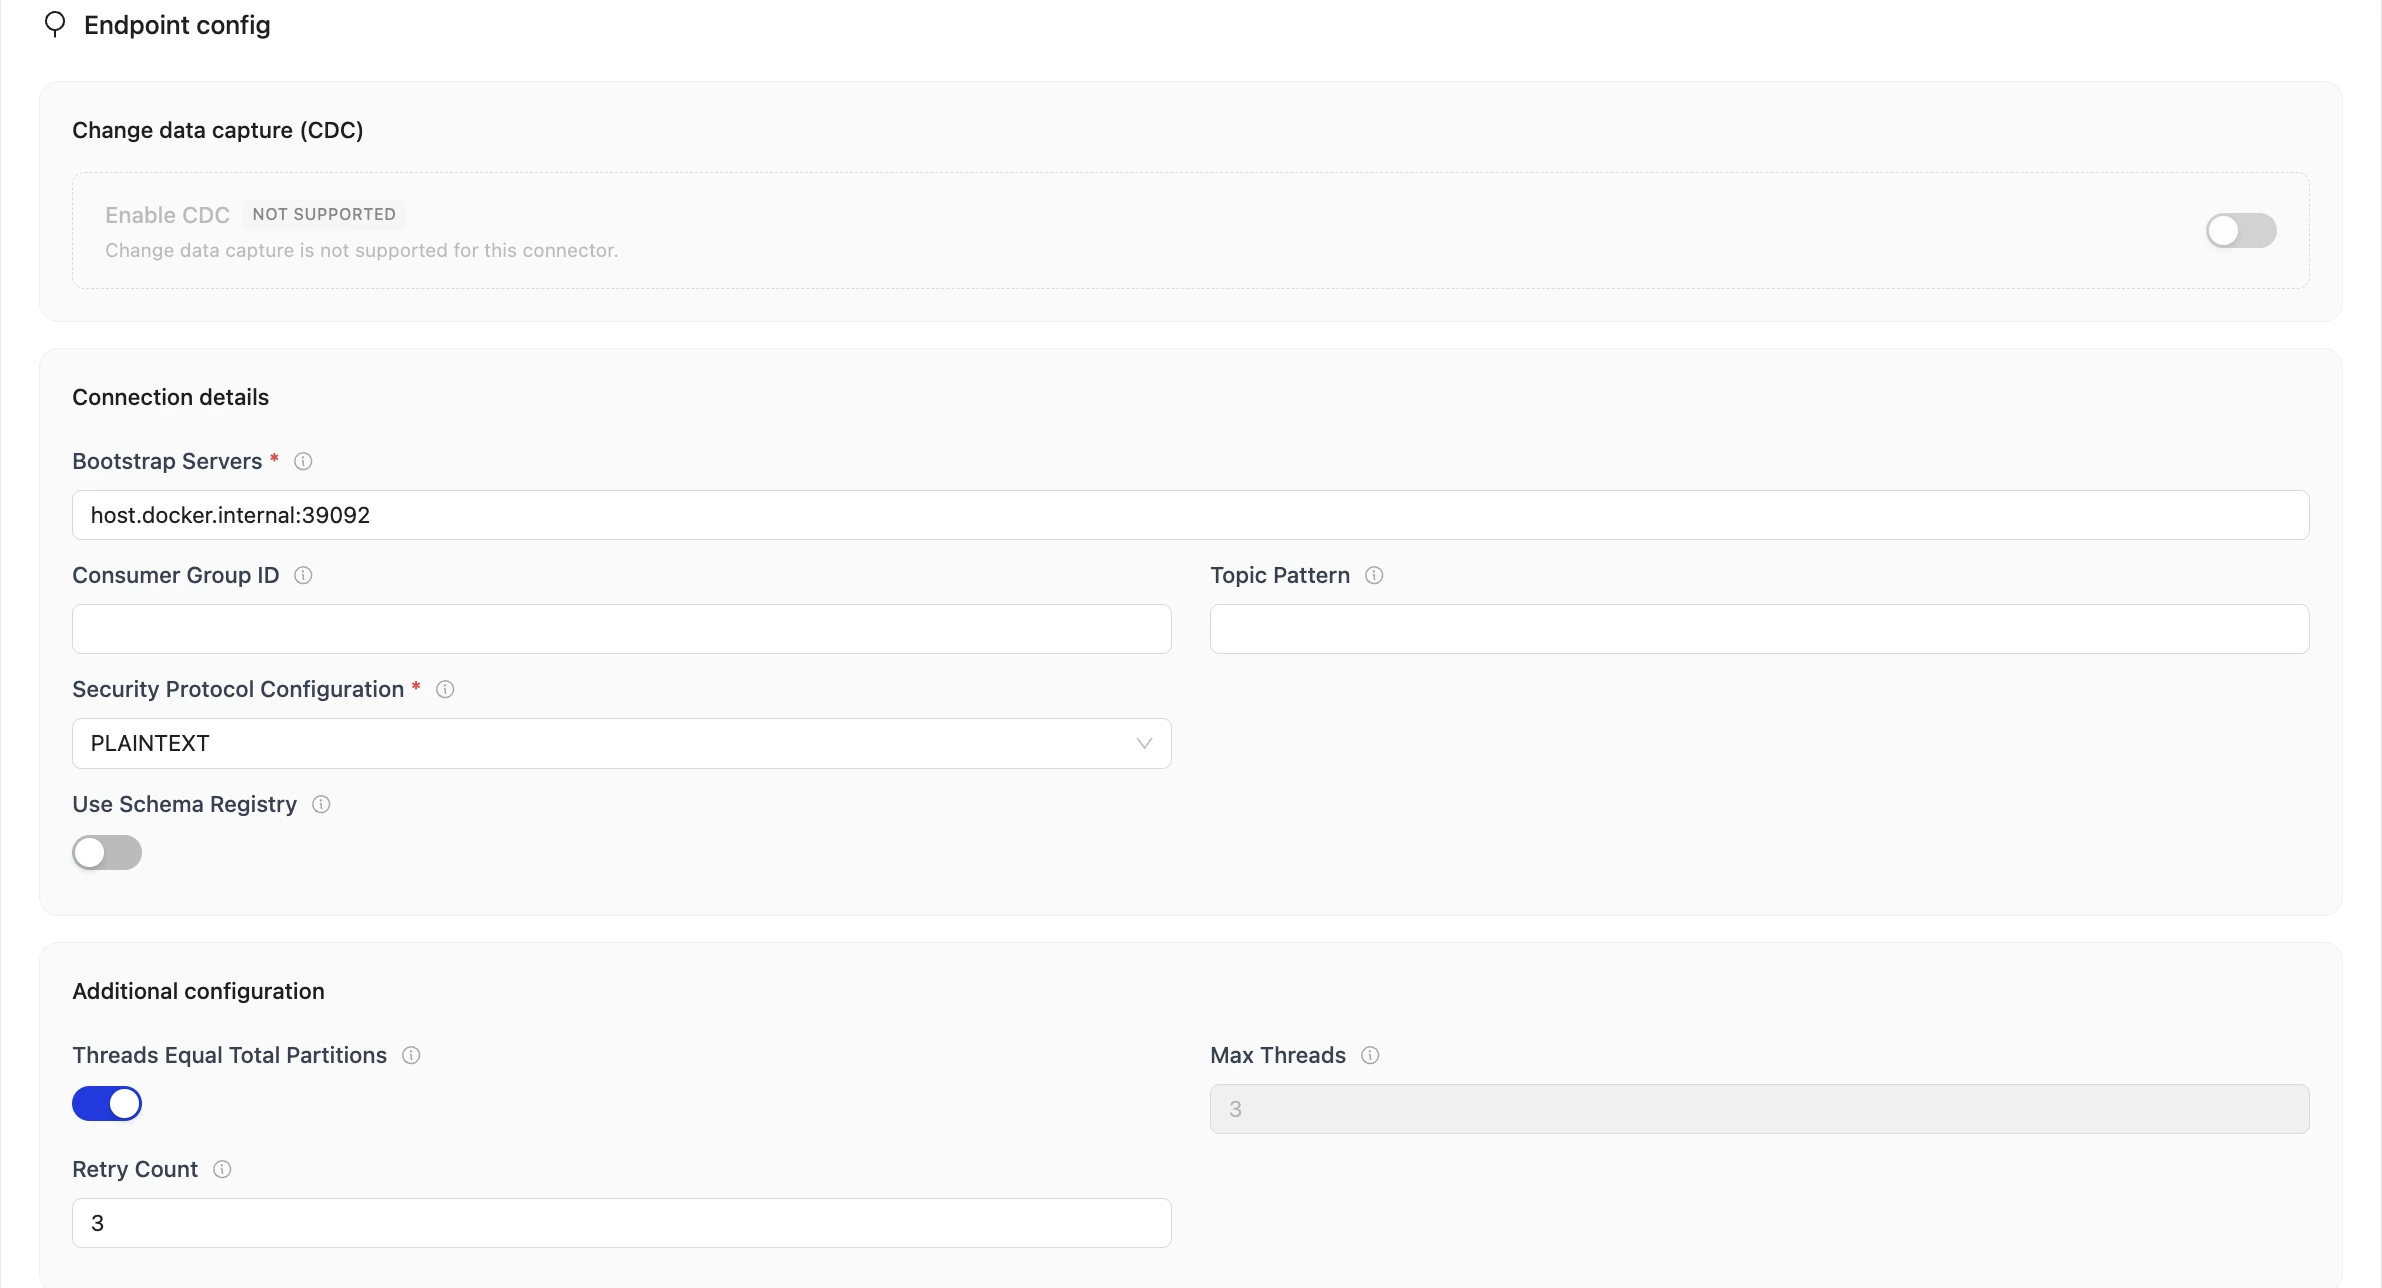
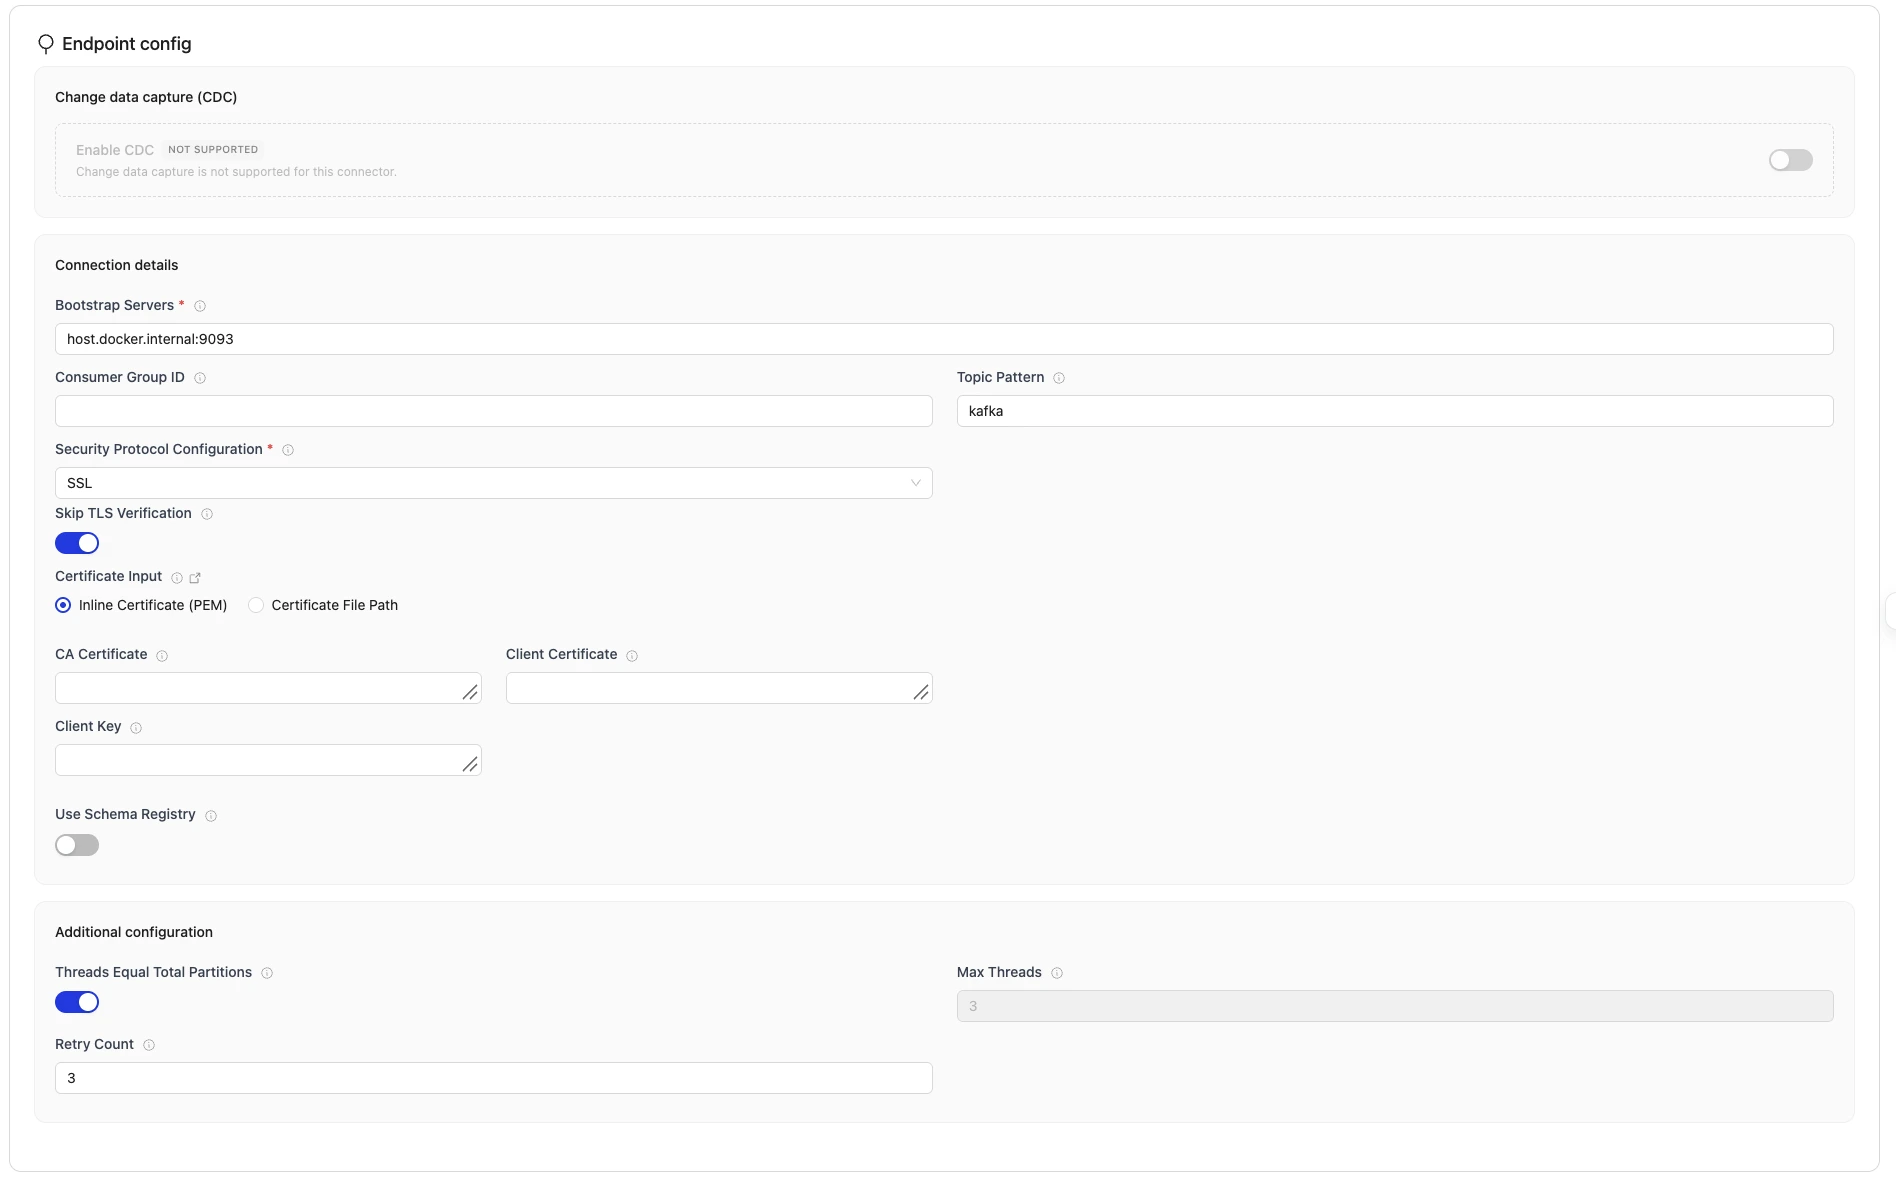
docs: add SSL certificate file path support (#627)
* docs: add SSL certificate file path support documentation

* docs: address review comments on SSL certificate file mounts

* docs: correct validation rule and remove em dashes in Kubernetes guide

* docs: add certificate file path fields to source connector pages

* docs: update source configuration screenshots

* docs: reword certificate input descriptions on connector pages

* docs: align install pages with certificate mount PRs

* docs: use the config folder for certificate files in Docker CLI guide

* fix(docs): address PR review feedback on SSL certificate fields

* fix(docs): address remaining PR review comments on install pages

* fix(docs): update OLAKE_JOB_BIND_MOUNTS to comma-separated format

* fix(docs): unify certificate input descriptions across all source connectors

* fix(docs): CLI cert_source rows link only to Docker CLI install page

* fix(docs): rename Extra Volumes heading to Extra Job Volumes for Connector Pods

* fix(docs): show inline and path cert variants in connector CLI tables

* fix(docs): show inline and path cert variants in UI tables and SSL mode details

* Update docs/install/kubernetes.mdx

* Update docs/install/docker-cli.mdx
* fix(docs): add SSL auth section, remove redundant PEM format notes, clean up docker-cli
- Add 4th SSL security protocol section to Kafka with tabbed inline/path cert examples
- Remove "(PEM format)" from path descriptions across all four connectors
[…]

diff --git a/docs/shared/config/SourceSSLModeDetails.jsx b/docs/shared/config/SourceSSLModeDetails.jsx
@@ -1,5 +1,7 @@
 import React from 'react';
 import CodeBlock from '@theme/CodeBlock';
+import Tabs from '@theme/Tabs';
+import TabItem from '@theme/TabItem';
 
 const SSL_MODES = {
   disable: {
@@ -23,26 +25,44 @@ const SSL_MODES = {
     title: 'Verify-CA',
     description: 'Encrypted connection with CA certificate verification.',
     sslMode: 'verify-ca',
-    requiredParams: ['server_ca'],
-    optionalParams: ['client_cert', 'client_key'],
-    example: {
+    inlineRequiredParams: ['server_ca'],
+    inlineOptionalParams: ['client_cert', 'client_key'],
+    pathRequiredParams: ['cert_source', 'server_ca_path'],
+    pathOptionalParams: ['client_cert_path', 'client_key_path'],
+    inlineExample: {
       mode: 'verify-ca',
       server_ca: ' ',
       client_cert: ' ',
       client_key: ' ',
+    },
+    pathExample: {
+      mode: 'verify-ca',
+      cert_source: 'path',
+      server_ca_path: '/etc/ssl/custom-certs/ca.pem',
+      client_cert_path: '/etc/ssl/custom-certs/client.pem',
+      client_key_path: '/etc/ssl/custom-certs/client.key',
     },
   },
   'verify-full': {
     title: 'Verify-Full',
     description: 'Encrypted connection with CA and hostname verification.',
     sslMode: 'verify-full',
-    requiredParams: ['server_ca'],
-    optionalParams: ['client_cert', 'client_key'],
-    example: {
+    inlineRequiredParams: ['server_ca'],
+    inlineOptionalParams: ['client_cert', 'client_key'],
+    pathRequiredParams: ['cert_source', 'server_ca_path'],
+    pathOptionalParams: ['client_cert_path', 'client_key_path'],
+    inlineExample: {
       mode: 'verify-full',
       server_ca: ' ',
       client_cert: ' ',
       client_key: ' ',
+    },
+    pathExample: {
+      mode: 'verify-full',
+      cert_source: 'path',
+      server_ca_path: '/etc/ssl/custom-certs/ca.pem',
+      client_cert_path: '/etc/ssl/custom-certs/client.pem',
+      client_key_path: '/etc/ssl/custom-certs/client.key',
     },
   },
 };
@@ -93,6 +113,8 @@ function formatSslExample(example) {
 }
 
 function SslModeSection({ index, mode }) {
+  const hasTabs = mode.inlineExample && mode.pathExample;
+
   return (
     <>
       <h3>
@@ -103,21 +125,54 @@ function SslModeSection({ index, mode }) {
         <li>
           <strong>SSL Mode</strong>: <code>{mode.sslMode}</code>
         </li>
-        {mode.requiredParams?.length > 0 && (
+        {!hasTabs && mode.requiredParams?.length > 0 && (
           <li>
             <strong>Required parameters</strong>: {renderParamList(mode.requiredParams)}
           </li>
         )}
-        {mode.optionalParams?.length > 0 && (
+        {!hasTabs && mode.optionalParams?.length > 0 && (
           <li>
             <strong>Optional parameters</strong>: {renderParamList(mode.optionalParams)}
           </li>
         )}
       </ul>
-      <p>
-        <strong>Example Configuration:</strong>
-      </p>
-      <CodeBlock language="json">{formatSslExample(mode.example)}</CodeBlock>
+      {hasTabs ? (
+        <Tabs>
+          <TabItem value="inline" label="Inline (PEM content)" default>
+            <ul>
+              <li>
+                <strong>Required</strong>: {renderParamList(mode.inlineRequiredParams)}
+              </li>
+              {mode.inlineOptionalParams?.length > 0 && (
+                <li>
+                  <strong>Optional</strong>: {renderParamList(mode.inlineOptionalParams)}
+                </li>
+              )}
+            </ul>
+            <CodeBlock language="json">{formatSslExample(mode.inlineExample)}</CodeBlock>
+          </TabItem>
+          <TabItem value="path" label="File Path">
+            <ul>
+              <li>
+                <strong>Required</strong>: {renderParamList(mode.pathRequiredParams)}
+              </li>
+              {mode.pathOptionalParams?.length > 0 && (
+                <li>
+                  <strong>Optional</strong>: {renderParamList(mode.pathOptionalParams)}
+                </li>
+              )}
+            </ul>
+            <CodeBlock language="json">{formatSslExample(mode.pathExample)}</CodeBlock>
+          </TabItem>
+        </Tabs>
+      ) : (
+        <>
+          <p>
+            <strong>Example Configuration:</strong>
+          </p>
+          <CodeBlock language="json">{formatSslExample(mode.example)}</CodeBlock>
+        </>
+      )}
     </>
   );
 }
